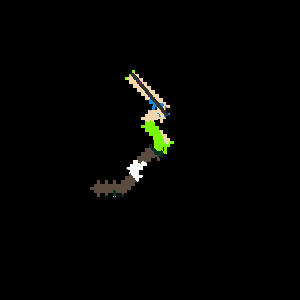
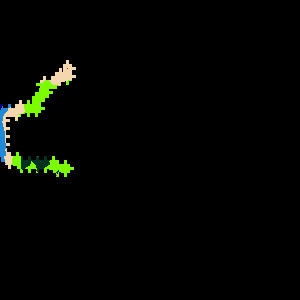
Managed some error with the algorithm

Changed region(s): [[0.0, 0.18, 0.27, 0.6], [0.3, 0.21, 0.6, 0.66]]

diff --git a/src/main.rs b/src/main.rs
@@ -27,8 +27,6 @@ use ghost_amazeing_island::world_generator::*;
 use genetic_algorithm::{InputDir,GeneticSearch,genetic_selection,genetic_mutation,genetic_crossover};
 use helpers_functions::{get_next_position,is_not_visualize,is_good_tile,direction_value};
 
-
-
 use lazy_static::lazy_static;
 
 
@@ -45,7 +43,8 @@ static POPULATION_NUMBER:usize=8;
 //Static means it has 'static lifetime.
 //ref, we allow multiple parts of our code to access the same piece of data without copying it
 lazy_static! {
-    //This mutex will block threads waiting for the lock to become available
+    //This mutex will block threads waiting for the lock to become available.
+    // Used when the threads are processing and we want the main thread to run some random game tick
     static ref RECHARGE:Mutex<bool>=Mutex::new(false);
 
     //We created a Arc, because we need to use it inside threads without data racing.
@@ -62,6 +61,7 @@ lazy_static! {
 
     static ref FOLLOW_DIRECTIONS:Mutex<MovesToFollow>=Mutex::new(MovesToFollow::new());
 
+    // If we need to charge our robot because we don't have enough energy to do our stuff.
     static ref WAIT_FOR_ENERGY:Mutex<bool>=Mutex::new(false);
 
 }
@@ -77,34 +77,18 @@ struct MyRobot{
 impl Runnable for MyRobot {
     fn process_tick(&mut self, world: &mut World) {
 
-        //Immediately return. We are running the threads
-        if *RECHARGE.lock().unwrap(){
+        //Check if we have some issue with the energy, such as thread running or need energy to operate.
+        if !self.is_energy_right(world){
             return;
         }
 
 
         let mut follow_dir=FOLLOW_DIRECTIONS.lock().unwrap();
-
-        if self.enough_energy_to_operate(&(*follow_dir),world){
-            *WAIT_FOR_ENERGY.lock().unwrap()=false;
-        }else{
-            *WAIT_FOR_ENERGY.lock().unwrap()=true;
-        }
-
-
-        //check if we need more energy
-        if *WAIT_FOR_ENERGY.lock().unwrap(){
-            return;
-        }
-
-
         //We follow the path created by the threads (we basically move)
         if !follow_dir.path_to_follow.is_empty(){
-            //println!("Energy before walking:{:?}",self.get_energy());
             //Actuator
             self.move_based_on_threads(world,&follow_dir.path_to_follow);
             follow_dir.path_to_follow.clear();
-
         }
 
         // I update my position
@@ -114,8 +98,7 @@ impl Runnable for MyRobot {
         POSITION.lock().unwrap().1=d.get_col();
 
 
-
-        //I visualize the new area I have just moved
+        //I visualize the new area I have just moved in
         //println!("After walking Energy:{:?}",self.get_energy());
         let res_visualize=self.visualize_around(world);
         match res_visualize{
@@ -129,56 +112,32 @@ impl Runnable for MyRobot {
         //println!("After walking and visualizing Energy:{:?}",self.get_energy());
 
 
-        //I use the debug function to show the global map only. I never use it for calculation purpose
-        let v=debug(self,world).0;
-        let mut new:Vec<Vec<Option<Tile>>>=Vec::new();
-        for i in v{
-            let mut vet:Vec<Option<Tile>>=Vec::new();
-            for j in i{
-                vet.push(Some(j));
-            }
-            new.push(vet);
-        }
-
-        //I create the graphical image of the map (total view)
-        export_of_image::export_to_image(&new,"mappa.jpg",self);
-
-
-        //I upload the new image of what I have seen
-        let v=robot_map(world).unwrap();
-        export_of_image::export_to_image(&v,"visualize.jpg",self);
-
+        //Function for the map image:
+        self.visualize_robot_map(world);
         print!("\n\n\n");
-
 
         //I upload the new static data, which they will be used by the threads.
         self.update_static_data(world);
         self.save_contents(world);
 
-        println!("\nMy coordinates:{:?}",self.get_coordinate());
+        //println!("\nMy coordinates:{:?}",self.get_coordinate());
         println!("Size backpack:{}",self.get_backpack().get_size());
         for i in self.get_backpack().get_contents().iter(){
-            if i.0.to_default()==Rock(0).to_default(){
+            if i.0.to_default()==Rock(0).to_default() || i.0.to_default()==Coin(0){
                 println!("Size of rock:{}",i.1);
             }
         }
 
-
         //let mut charted_path = ChartingTools::tool::<ChartedPaths>().unwrap();
         //charted_path.init(&robot_map(world).unwrap(), world);
         /*
-        let de=destroy(self,world,Direction::Right);
-        println!("{:?}",de);
-        let _=go(self,world,Direction::Right);
         let wh=put(self,world,Garbage(0),5,Direction::Right);
         println!("wh:{:?}",wh);
         */
 
     }
 
-    fn handle_event(&mut self, event: Event) {
-        //println!("{:?}", event);
-    }
+    fn handle_event(&mut self, event: Event) { /*println!("{:?}", event); */}
 
     fn get_energy(&self) -> &Energy {
         &self.robot.energy
@@ -239,7 +198,7 @@ impl MyRobot{
 
             match d{
                 Ok(_) => {}
-                Err(e) => {println!("Error:{:?}",e)}
+                Err(e) => {println!("Error move:{:?}",e)}
             }
         }
 
@@ -286,17 +245,16 @@ impl MyRobot{
 
                 let content=&map[i as usize][j as usize].as_ref().unwrap().content;
 
-                if content.to_default()==None || content.to_default()==Fire || content.to_default()==Tree(0) || content.to_default()==Bush(0) || content.to_default()==Fish(0) || content.to_default()==Rock(0) || content.to_default()==Coin(0){continue}
+                if content.to_default()==None || content.to_default()==Fire || content.to_default()==Tree(0) || content.to_default()==Bush(0) || content.to_default()==Fish(0) || content.to_default()==Rock(0) || content.to_default()==Coin(0) || content.to_default()==Garbage(0){continue}
 
                 self.interest_points.insert((i as usize,j as usize), content.clone());
             }
         }
 
-        /*
+
         for i in &self.interest_points{
             println!("At this coordinate:({},{}) there is {:?}",i.0.0,i.0.1,i.1);
         }
-         */
 
     }
 
@@ -374,7 +332,9 @@ impl MyRobot{
         }
          */
 
-        if result.is_empty(){
+        // We prevent some possible problem. Since, it might get stuck in the threads to search for
+        // the best path.
+        if result.len()<=2{
             result=PositionToGo::new_already_seen(self,&rob_map,x,y);
         }
 
@@ -449,6 +409,48 @@ impl MyRobot{
         cost+=cost_energy;
 
         self.get_energy().has_enough_energy(cost)
+    }
+
+    fn visualize_robot_map(&mut self,world:&mut World){
+        //I use the debug function to show the global map only. I never use it for calculation purpose
+        let v=debug(self,world).0;
+        let mut new:Vec<Vec<Option<Tile>>>=Vec::new();
+        for i in v{
+            let mut vet:Vec<Option<Tile>>=Vec::new();
+            for j in i{
+                vet.push(Some(j));
+            }
+            new.push(vet);
+        }
+
+        //I create the graphical image of the map (total view)
+        export_of_image::export_to_image(&new,"mappa.jpg",self);
+
+
+        //I upload the new image of what I have seen
+        let v=robot_map(world).unwrap();
+        export_of_image::export_to_image(&v,"visualize.jpg",self);
+    }
+
+    fn is_energy_right(&mut self, world:&mut World) ->bool{
+        //Immediately return. We are running the threads
+        if *RECHARGE.lock().unwrap(){
+            return false;
+        }
+        let mut follow_dir=FOLLOW_DIRECTIONS.lock().unwrap();
+
+
+        // Do we need to do some free cycles because we don't have enough energy?
+        if self.enough_energy_to_operate(&(*follow_dir),world){
+            *WAIT_FOR_ENERGY.lock().unwrap()=false;
+        }else{
+            *WAIT_FOR_ENERGY.lock().unwrap()=true;
+        }
+        //check if we need more energy
+        if *WAIT_FOR_ENERGY.lock().unwrap(){
+            return false;
+        }
+        true
     }
 
 }
@@ -578,13 +580,20 @@ fn main() {
 
         *RECHARGE.lock().unwrap()=true;
 
-        //println!("New call for threads");
+
         let time=spawn(||{
             let mut thread_flag=true;
+
             //Return values from the threads:
             let mut min_so_far=GeneticSearch::default();
+
+            //We control how many interations we do to search for the best path.
+            let mut counter_try=0;
+
             while thread_flag{
+                counter_try+=1;
                 min_so_far=GeneticSearch::default();
+
                 //First thread, which will launch the other threads.
                 let mut handlers=vec![];
 
@@ -599,12 +608,11 @@ fn main() {
 
 
                 for i in positions{
-                    //Follows the other threads for specific direction
 
                     //I launch a thread for every specific direction which we may follow
                     let thread_map=Arc::clone(&map);
 
-                    //move converts any variables captured by reference or mutable reference to variables captured by value
+                    //Move converts any variables captured by reference or mutable reference to variables captured by value
                     let handle=spawn( move ||{
                         //Robot map for the threads.
                         let inside_thread_map=Arc::clone(&thread_map);
@@ -694,13 +702,15 @@ fn main() {
                 //println!("\n\nAt the calculation I got:");
                 for i in handlers{
                     let value=i.join().unwrap();
-                    //println!("I got weight:{},distance:{}, cost:{} and this series:{:?}",value.weight,value.distanze_from_dest,value.cost,value.vector);
 
                     if value==Option::None{continue}
 
                     let value=value.unwrap();
 
-                    if value.distanze_from_dest<=min_so_far.distanze_from_dest && value.weight<min_so_far.weight{
+                    //println!("I got weight:{},distance:{}, cost:{}",value.weight,value.distanze_from_dest,value.cost);
+
+
+                    if value.distanze_from_dest<=min_so_far.distanze_from_dest{
                         if value.weight==min_so_far.weight{
                             if value.cost<min_so_far.cost{
                                 min_so_far=value;
@@ -712,8 +722,17 @@ fn main() {
                 }
                 //We are going to leave the loop only if the result distance is at least lower than 1.
                 //If it doesn't work we will try again.
+                //We need to add some conditions, because it might get stucked if we are close to the deep water
+                //println!("Counter:{}",counter_try);
                 if min_so_far.distanze_from_dest<=1{
                     thread_flag=false;
+                }else if counter_try>=3 && counter_try<=10{
+                    if min_so_far.distanze_from_dest<=2{
+                        thread_flag=false;
+                    }
+                }else if counter_try>10{
+                    println!("Error in the calculation of the path");
+                    return GeneticSearch::default();
                 }
             }
 
@@ -732,6 +751,10 @@ fn main() {
 
         //We wait for the thread, which contains all the other threads, to finish
         let t=time.join().unwrap();
+        //Check if we got an error in the calculation
+        if t.weight>=1000{
+            return;
+        }
 
         *RECHARGE.lock().unwrap()=false;
         FOLLOW_DIRECTIONS.lock().unwrap().path_to_follow=t.vector;

diff --git a/src/genetic_algorithm.rs b/src/genetic_algorithm.rs
@@ -141,7 +141,7 @@ impl GeneticSearch{
             next_y=y+j;
 
 
-            if is_not_visualize(next_x, next_y){
+            if is_not_visualize(next_x, next_y) || inside_thread_map[next_x as usize][next_y as usize].is_none(){
                 null_block+=1;
                 *ele=InputDir::None;
                 continue;
@@ -149,7 +149,11 @@ impl GeneticSearch{
 
             if !is_good_tile(&inside_thread_map[next_x as usize][next_y as usize]){
                 null_block+=1;
-                *ele=InputDir::random_input_dir();
+                let mut e =ele.clone();
+                while *ele!=e{
+                    e=InputDir::random_input_dir();
+                }
+                *ele=e;
                 continue;
             }
 
